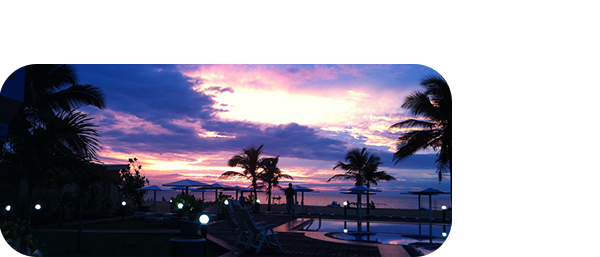
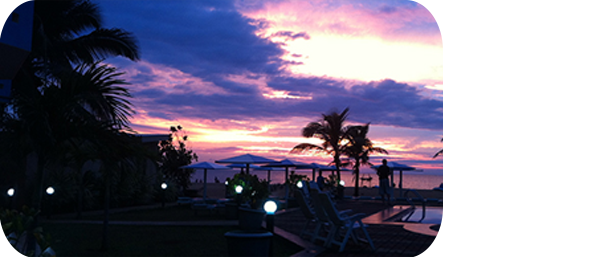
modify horizon page

diff --git a/style/horizon.css b/style/horizon.css
@@ -311,7 +311,7 @@ nav.next-prev {
 		}
 	#bg2-3 {
 		position: absolute;
-		top: 640px;
+		top: 715px;
 		left: 105px;
 		}
 	#bg2-4 {
